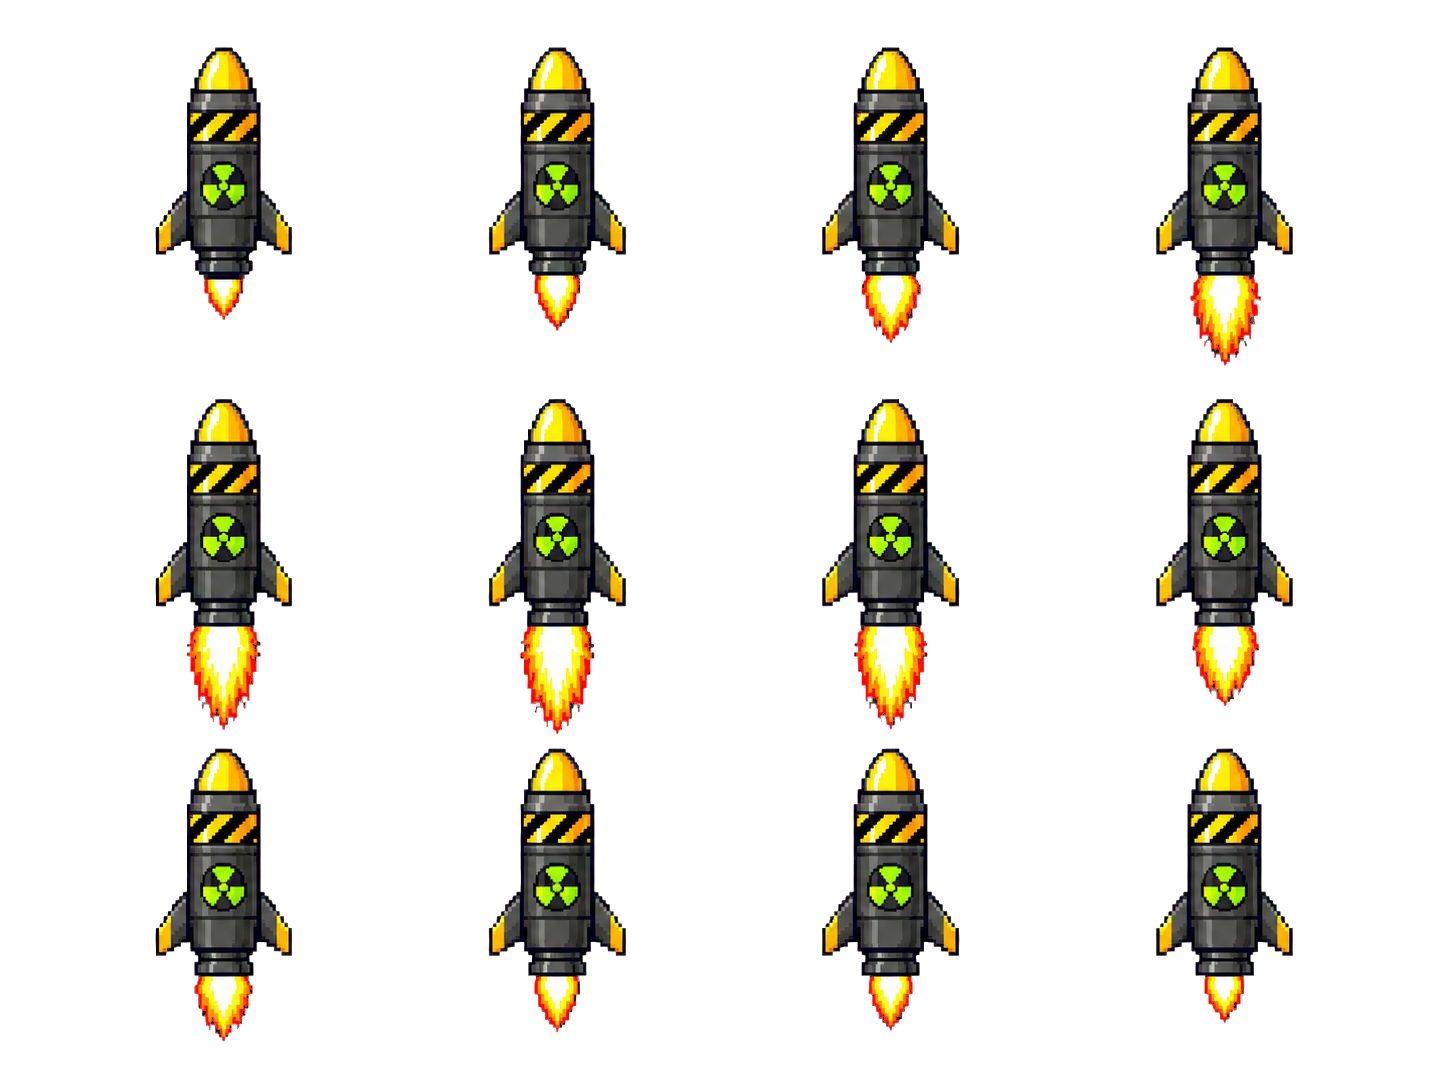
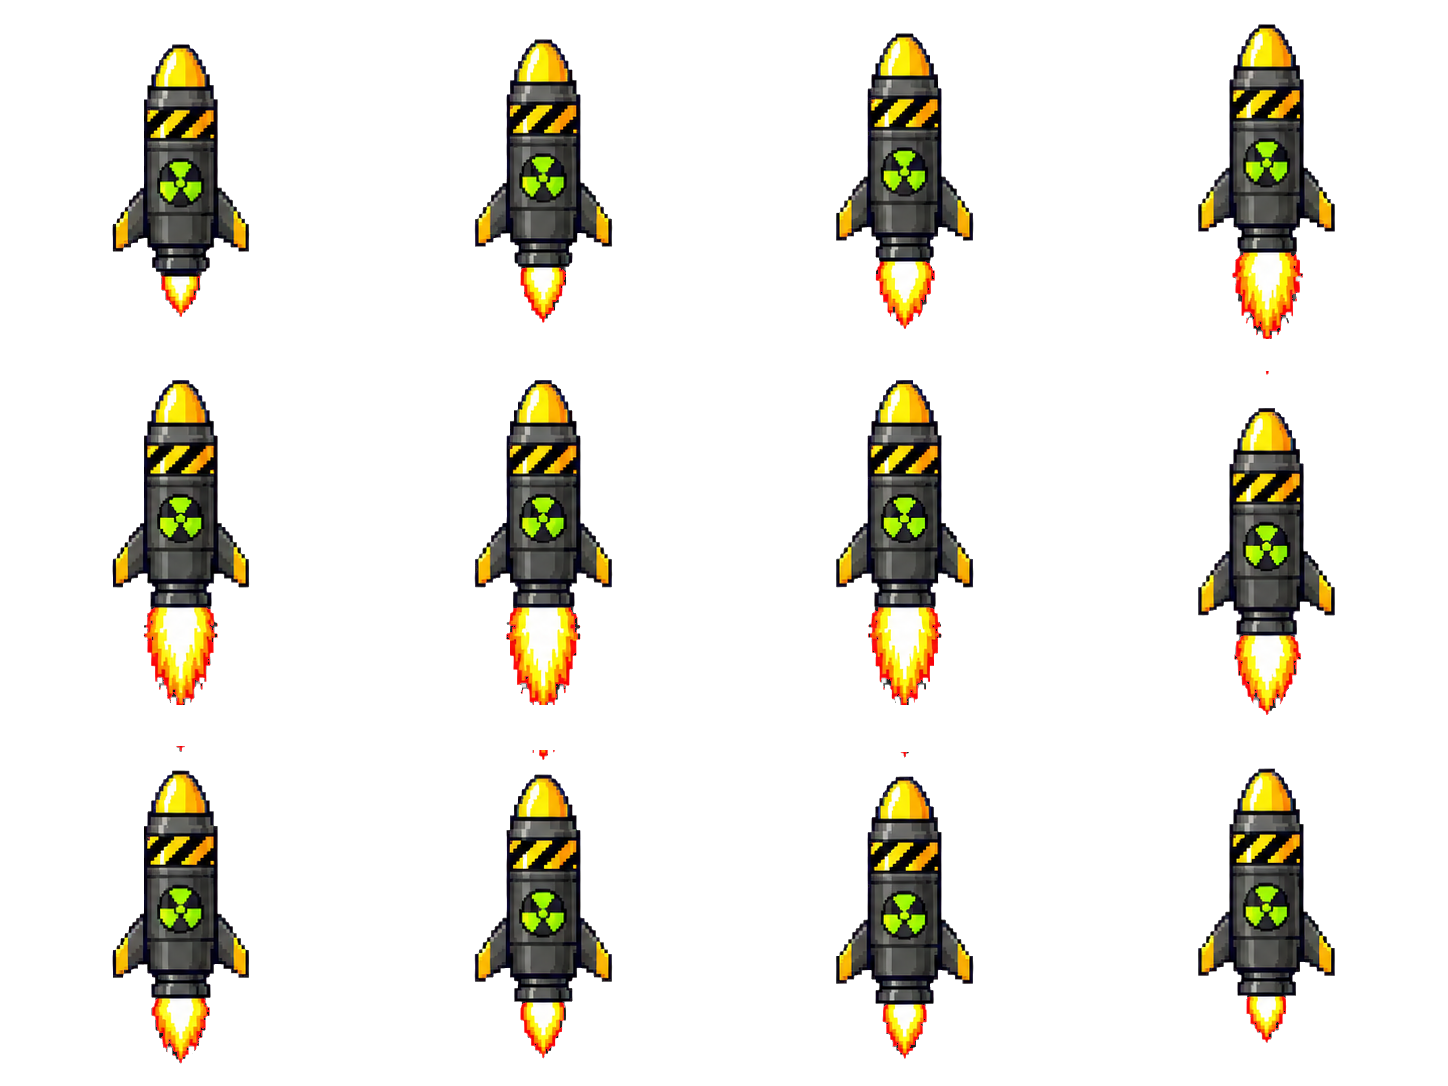
Center every nuke missile animation frame

diff --git a/style.css b/style.css
@@ -13374,8 +13374,7 @@ html.touch-phone #s-menu .menu-offline-banner {
 }
 
 #s-shop .shop-missile-nuke .shop-missile-sprite {
-  /* The artwork sits 11.74% to the right inside every sprite cell. */
-  transform: translate(-11.74%, -0.55%);
+  transform: none;
   transform-origin: 50% 50%;
   rotate: 0deg;
 }
